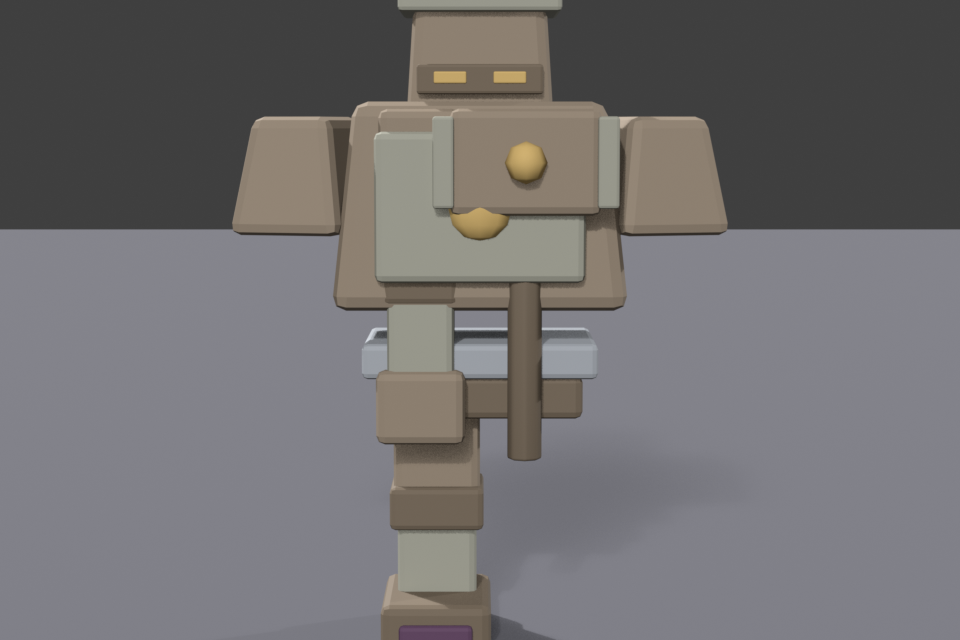
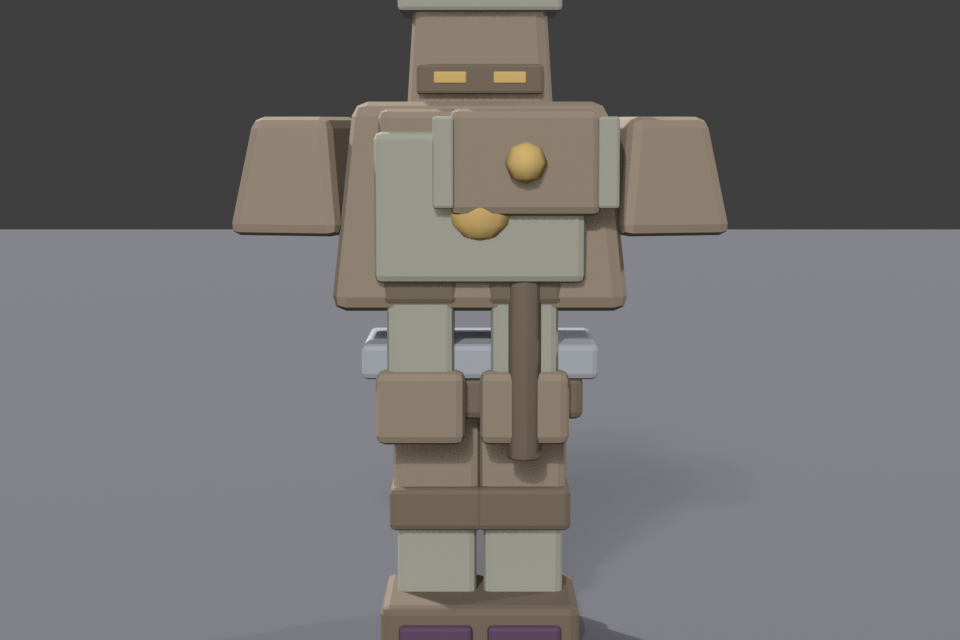
A17-Monster: 修复预览「只有一条腿」(preview_one 复用对象)
根因: preview_one 每槽位只建1个对象, leg_back/leg_front(及arm)两条骨引用
同一对象, 第二次 location 覆盖第一次 -> 预览里两腿塌成一条。
对照 Boss 重建助手 (循环内每次新建) 确认; 游戏内本就是两条腿 (parts 7项
逐项绘制, bone.x=-3/+3)。
修复: preview_one 每骨骼锚点新建对象; 重渲4族代表预览, 确认两腿两臂分开。
仅预览脚本+4 PNG, 150 资产/骨架/运行时零改动; 链路 30/30 仍闭合。

Changed region(s): [[0.5, 0.4375, 0.6562, 1.0]]

diff --git a/art_src/scripts/blender_models_monsters.py b/art_src/scripts/blender_models_monsters.py
@@ -1030,10 +1030,14 @@ def preview_one(name):
     import blender_scene
 
     camera = blender_scene.setup_scene()  # 先清场并布置灯光/相机
-    parts = build_parts(name)  # 再建模 (避免被 clear_scene 删掉)
+    family = MONSTERS[name][0]
+    builders = FAMILIES[family]
+    c = _color(name)
     objs = []
+    # 每个骨骼锚点新建对象 (leg/arm 有 front/back 两条骨, 复用同一对象会让
+    # 第二次 location 覆盖第一次 → 预览里两条腿塌成一条)
     for bone_name, slot, bx, bz in ANCHORS:
-        obj = parts[slot]
+        obj = builders[slot](name, c)
         obj.name = bone_name
         obj.scale = (PPU, PPU, PPU)
         obj.location = (bx * PPU, 0, bz * PPU)

diff --git a/CHANGELOG.md b/CHANGELOG.md
@@ -1,4 +1,21 @@
-# A17-Monster: 30 种普通怪物手建低模（2026-11-05）
+# A17-Monster: 预览「只有一条腿」根因修复（2026-11-05）
+
+> 反馈:怪物预览里好多只有一条腿。按 systematic-debugging 定位根因后再修。
+
+## 根因 (非建模缺腿)
+- `blender_models_monsters.py::preview_one()` 用 `build_parts(name)` 每槽位只建 **1 个** Blender 对象，
+  而 `ANCHORS` 中 `leg_back`/`leg_front`（及 `arm_back`/`arm_front`）是两条独立骨骼、引用同一槽位；
+  第二次 `obj.location` 覆盖第一次 → **预览图里两条腿塌成一条、两臂塌成一只**。
+- 对照工作参照 `boss_mcp_rebuild.py`：它在循环内每次 `builders[slot]()` 新建对象，故六 Boss 预览一直正常。
+- 游戏内不受影响:骨架 `parts` 有 7 项 (含 leg_back/leg_front 各一), `part_draws()` 逐项画,
+  `_try_attach_lowpoly` 逐项加载 mesh, 两腿 `bone.x=-3/+3` 位置不同 → 实战本就是两条腿。
+
+## 修复
+- `preview_one` 改为**每个骨骼锚点新建对象** (与 Boss 助手一致), 移除复用导致的 location 覆盖。
+- 四族代表预览重渲染 (orc/golem/slime/fire_imp), orc 与 golem 均确认显示两条腿 + 两只臂。
+- 仅改预览脚本 + 重渲 4 张预览; **150 件游戏资产 / 骨架 / 运行时代码零改动** (避免过度修复)。
+
+# A17-Monster: 30 种普通怪物手建低模（2026-11-05）
 
 > 兑现 A16 试点里"风格满意后铺开怪物"的剩余一半；先铺开再二次精修。
 > 30 种怪物共用同一骨架 (ppu 0.8 / anchor 24,62 / 5 槽位 head·torso·arm·leg·weapon)，
